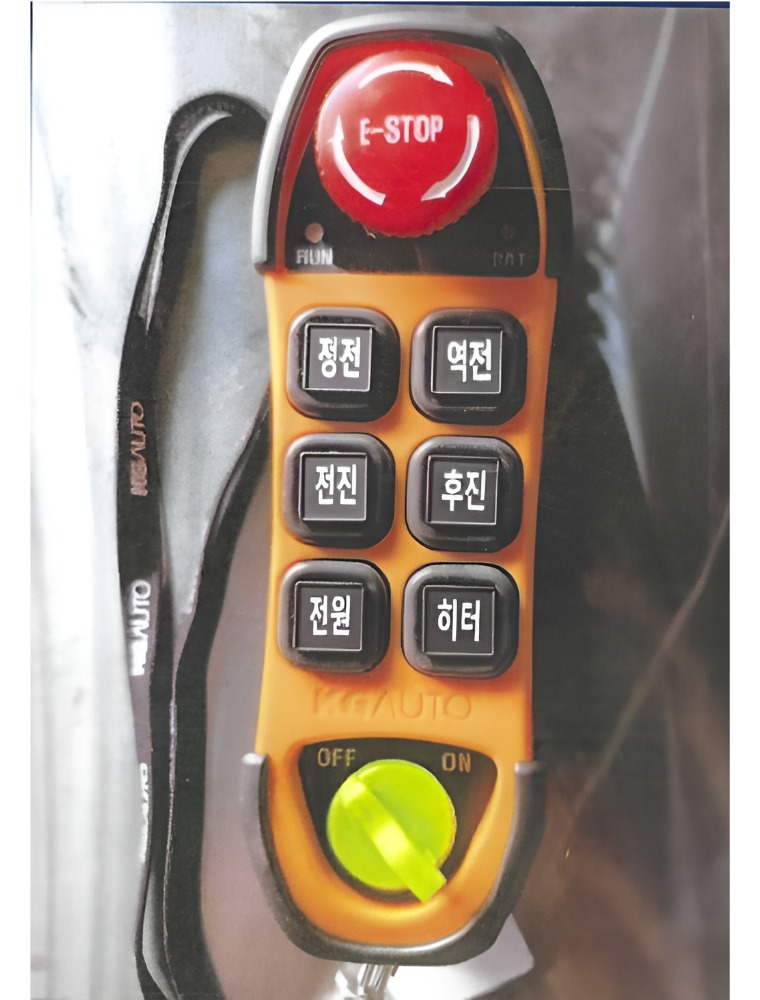
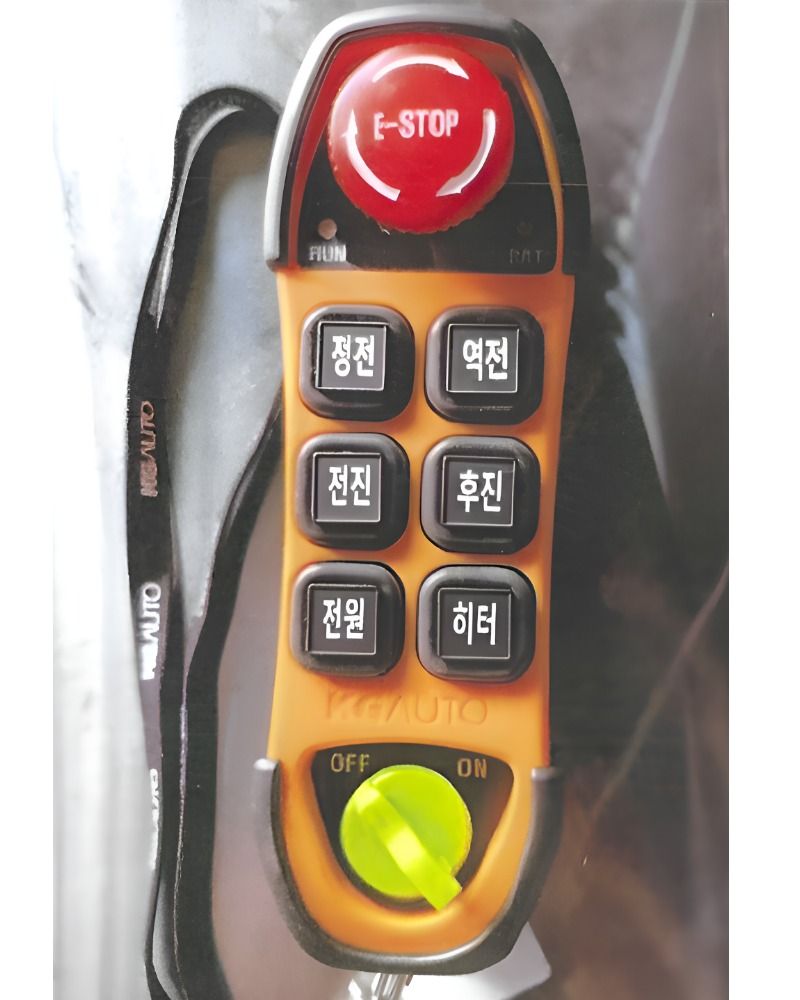
Update wireless remote photo; enlarge gallery captions
- Replace remote photo on product.html and gallery.html with the
  latest attached version
- Increase gallery no-crop caption font size (14px -> 19px) for
  readability

diff --git a/public/product.html b/public/product.html
@@ -279,7 +279,7 @@
         <p>전원 On/Off · 정회전·역회전 · 전진·후진을 무선 리모컨 하나로 간편하게 제어합니다. 배선 연결 없이 운전석 어디서든 조작 가능합니다.</p>
       </div>
       <div class="grid" style="justify-content:center;">
-        <div class="hero-media" style="aspect-ratio:760/1000; max-width:380px; margin:0 auto;">
+        <div class="hero-media" style="aspect-ratio:800/1000; max-width:380px; margin:0 auto;">
           <img src="assets/img/hero/control-remote.jpg" alt="무선 리모컨 - 전원, 정역회전, 전후진, 비상정지 버튼" loading="lazy">
           <span class="hero-media-tag">무선 리모컨 (E-STOP 비상정지 포함)</span>
         </div>

diff --git a/public/assets/css/style.css b/public/assets/css/style.css
@@ -576,8 +576,8 @@ a:focus-visible, button:focus-visible, input:focus-visible, textarea:focus-visib
   background: none;
   color: var(--navy);
   font-weight: 700;
-  font-size: 14px;
-  padding: 12px 14px;
+  font-size: 19px;
+  padding: 14px;
   text-align: center;
 }
 
